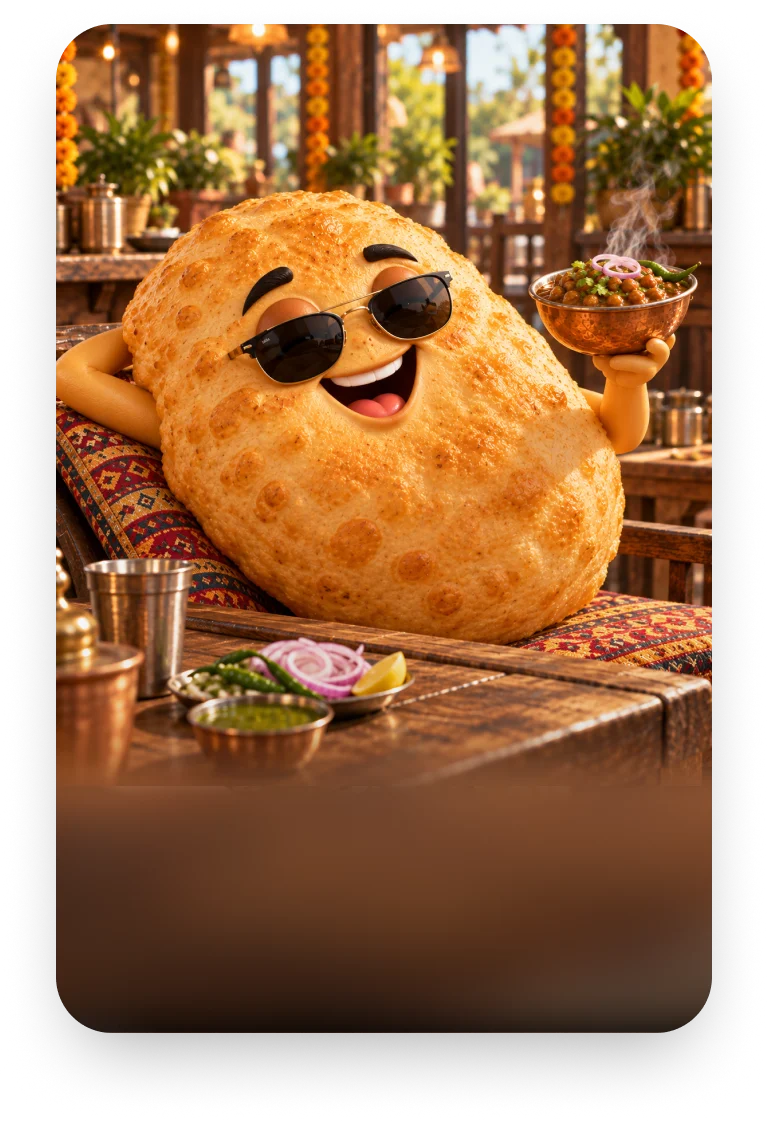
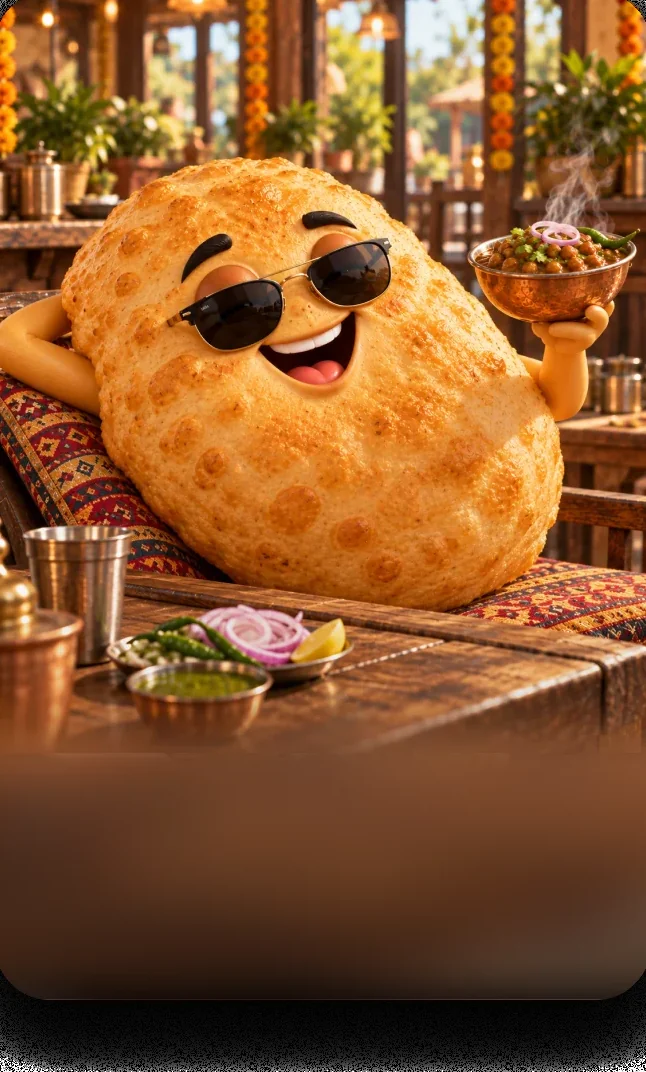
Crop the Figma card chrome off the WebP photos.
Pins swipe cards to the top so the cream frame and extra zoom are gone.

diff --git a/lib/foods.ts b/lib/foods.ts
@@ -5,7 +5,7 @@ export const FOODS: FoodProfile[] = [
     id: "samosa",
     name: "Samosa",
     slug: "samosa",
-    image: "/foods/samosa.webp?v=webp2",
+    image: "/foods/samosa.webp?v=webp3",
     originFlag: "🇮🇳",
     originLabel: "From India",
     tagline: "Two chutneys, extra drama, will show up hot and crispy",
@@ -20,7 +20,7 @@ export const FOODS: FoodProfile[] = [
     id: "brownie",
     name: "Brownie",
     slug: "brownie",
-    image: "/foods/brownie.webp?v=webp2",
+    image: "/foods/brownie.webp?v=webp3",
     originFlag: "🇺🇸",
     originLabel: "From USA",
     tagline: "Long walks to the fridge at midnight, being fudgy not cakey, ice cream on top energy",
@@ -35,7 +35,7 @@ export const FOODS: FoodProfile[] = [
     id: "protein-bar",
     name: "Protein Bar",
     slug: "protein-bar",
-    image: "/foods/protein-bar.webp?v=webp2",
+    image: "/foods/protein-bar.webp?v=webp3",
     originFlag: "🇺🇸",
     originLabel: "From USA",
     tagline: "Macros over cake, 5am alarms, will mention protein on date one",
@@ -50,7 +50,7 @@ export const FOODS: FoodProfile[] = [
     id: "nacho-cheese",
     name: "Nacho + Cheese Dip",
     slug: "nacho-cheese",
-    image: "/foods/nacho-cheese.webp?v=webp2",
+    image: "/foods/nacho-cheese.webp?v=webp3",
     originFlag: "🇲🇽",
     originLabel: "From Mexico",
     tagline: "Party starter, zero personal space, the cheese stays with me",
@@ -65,7 +65,7 @@ export const FOODS: FoodProfile[] = [
     id: "gulab-jamun",
     name: "Gulab Jamun",
     slug: "gulab-jamun",
-    image: "/foods/gulab-jamun.webp?v=webp2",
+    image: "/foods/gulab-jamun.webp?v=webp3",
     originFlag: "🇮🇳",
     originLabel: "From India",
     tagline: "Mummy already likes me, extra sugar, every shaadi playlist",
@@ -80,7 +80,7 @@ export const FOODS: FoodProfile[] = [
     id: "tiramisu",
     name: "Tiramisu",
     slug: "tiramisu",
-    image: "/foods/tiramisu.webp?v=webp2",
+    image: "/foods/tiramisu.webp?v=webp3",
     originFlag: "🇮🇹",
     originLabel: "From Italy",
     tagline: "I have layers, please say my name right, espresso after dark",
@@ -95,7 +95,7 @@ export const FOODS: FoodProfile[] = [
     id: "broccoli",
     name: "Broccoli",
     slug: "broccoli",
-    image: "/foods/broccoli.webp?v=webp2",
+    image: "/foods/broccoli.webp?v=webp3",
     originFlag: "🇮🇹",
     originLabel: "From Italy",
     tagline: "Vitamins, birthday-party trauma, still asking for a chance",
@@ -110,7 +110,7 @@ export const FOODS: FoodProfile[] = [
     id: "bhole-chature",
     name: "Bhole Chature",
     slug: "bhole-chature",
-    image: "/foods/bhole-chature.webp?v=webp2",
+    image: "/foods/bhole-chature.webp?v=webp3",
     originFlag: "🇮🇳",
     originLabel: "From India",
     tagline: "Chaotic good, extra masala, will talk to everyone in the line",
@@ -125,7 +125,7 @@ export const FOODS: FoodProfile[] = [
     id: "pizza",
     name: "Pizza",
     slug: "pizza",
-    image: "/foods/pizza.webp?v=webp2",
+    image: "/foods/pizza.webp?v=webp3",
     originFlag: "🇮🇹",
     originLabel: "From Italy",
     tagline: "Everybody’s type eventually, never share the last slice",
@@ -140,7 +140,7 @@ export const FOODS: FoodProfile[] = [
     id: "sushi",
     name: "Sushi",
     slug: "sushi",
-    image: "/foods/sushi.webp?v=webp2",
+    image: "/foods/sushi.webp?v=webp3",
     originFlag: "🇯🇵",
     originLabel: "From Japan",
     tagline: "Raw honesty, wasabi optional, slightly expensive first date",

diff --git a/app/globals.css b/app/globals.css
@@ -206,8 +206,8 @@ a { color: inherit; }
   border-radius: 32px;
   overflow: hidden;
   background-color: transparent;
-  background-size: 118% 118%;
-  background-position: center;
+  background-size: cover;
+  background-position: center top;
   background-repeat: no-repeat;
 }
 .tinder-peek {
